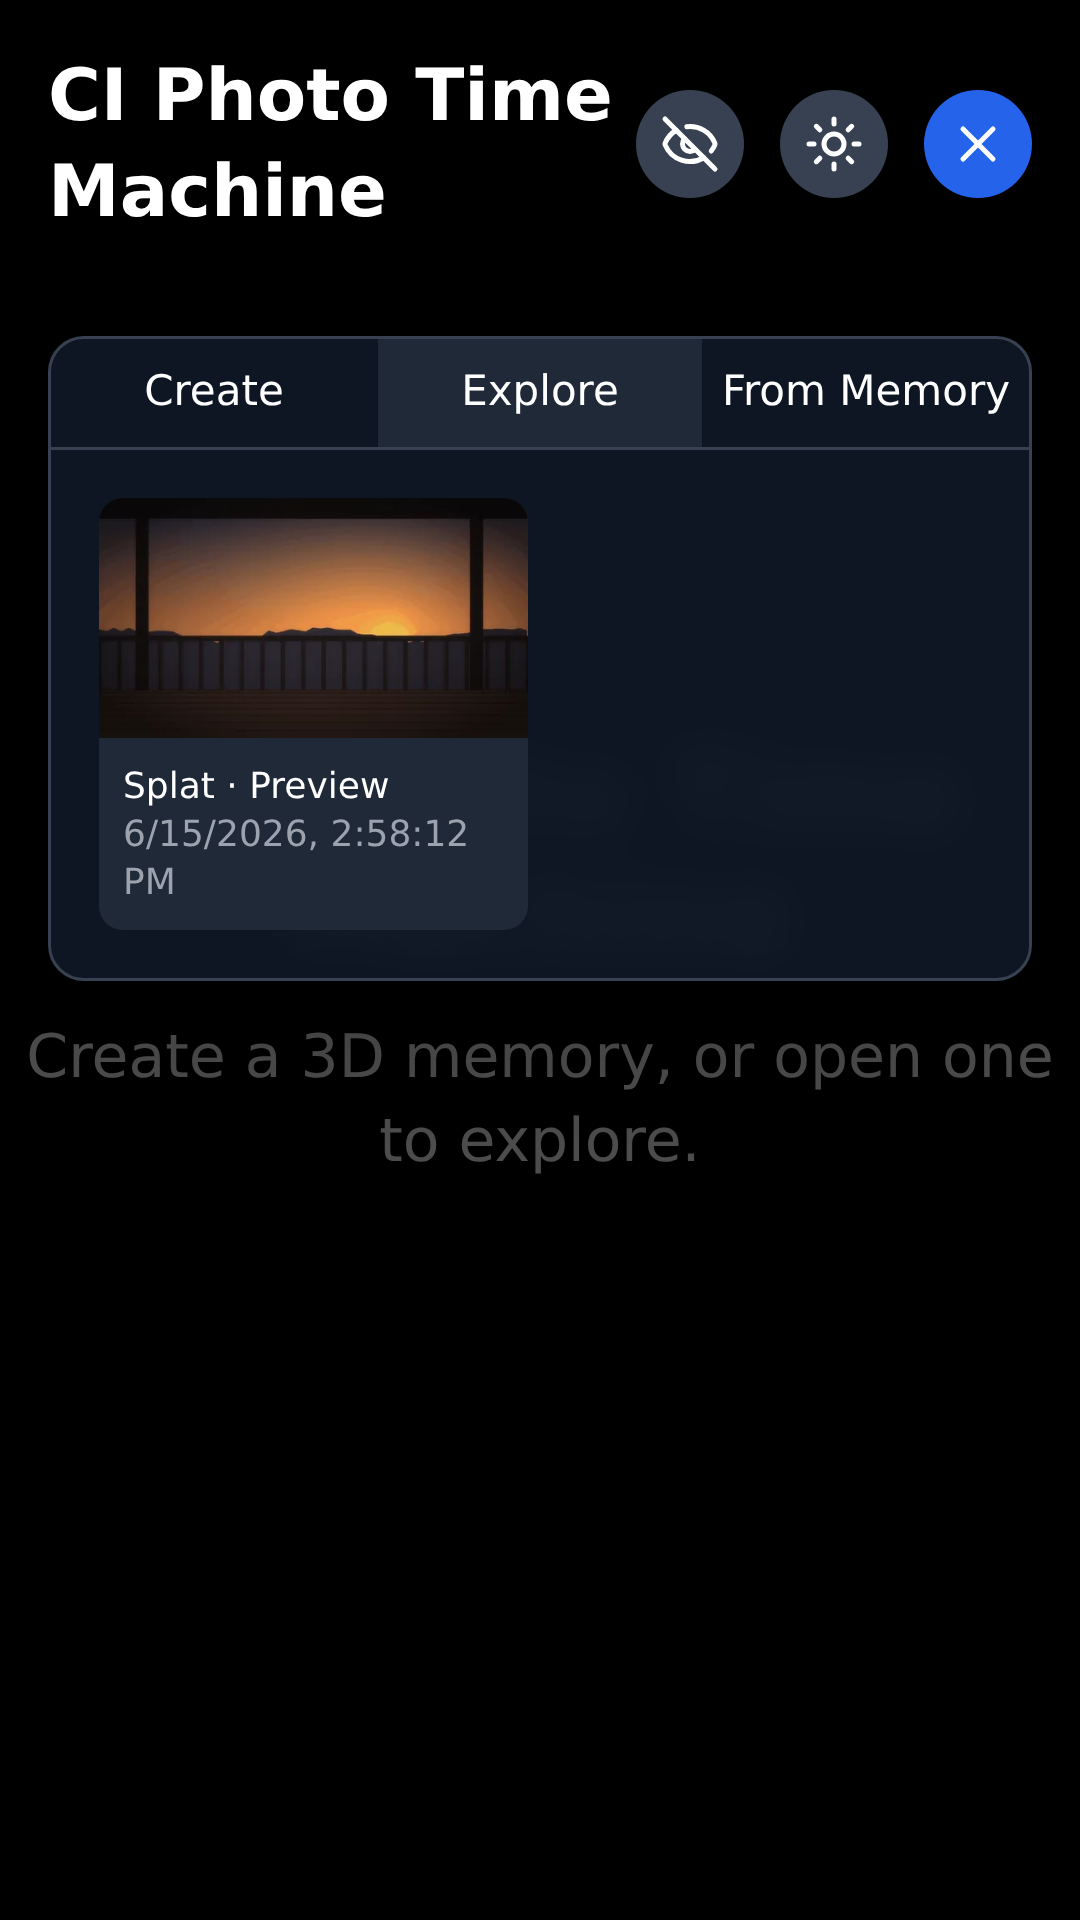
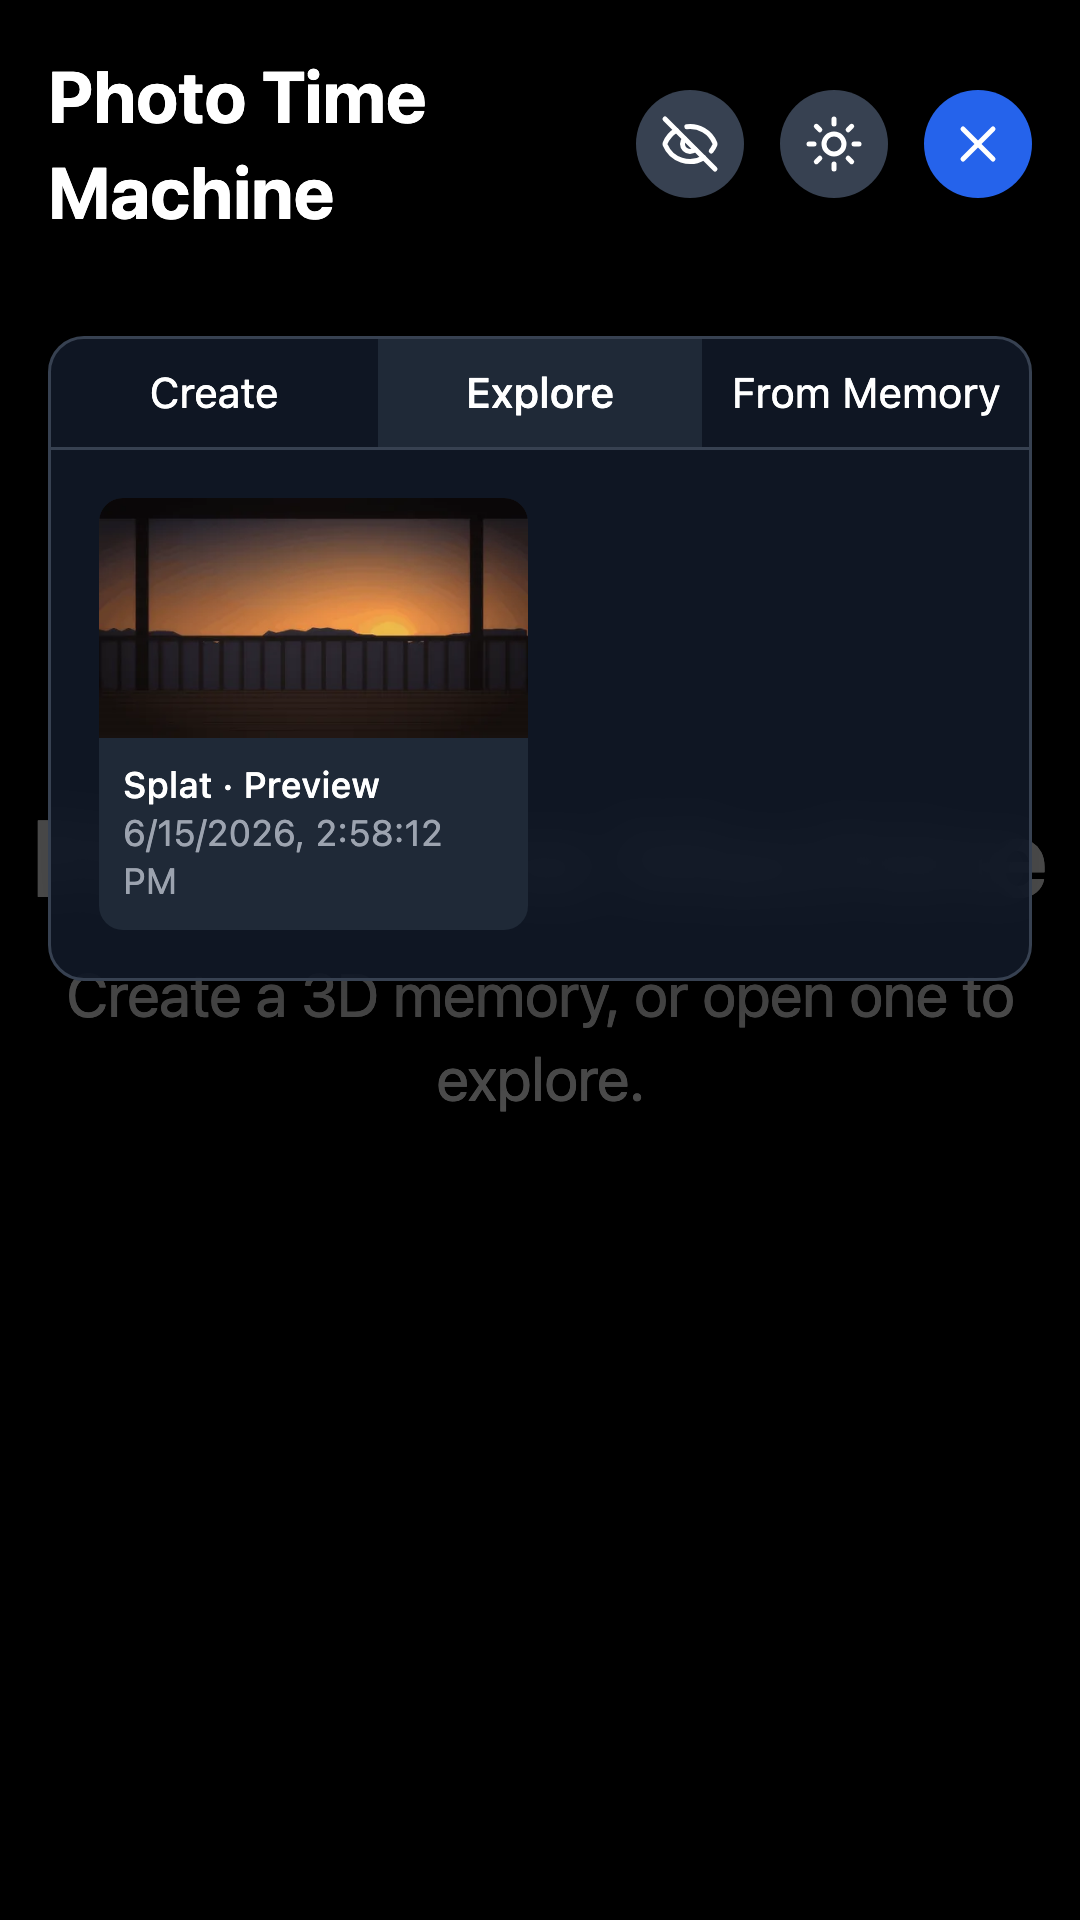
fix(video): stop masking the splat status pill, unbreak the share beat (#18)
* fix(video): stop masking the splat status pill, unbreak the share beat

Acts on the product-video audit for Photo Time Machine. Editorial and capture
fixes only — nothing here changes what the app does.

storyboard.json

- Drop `mask: ["[data-splat-status]"]` from all four viewer capture blocks.
  `capture.mask` does not blur, it paints an opaque #0A222E block (video-kit
  src/capture.mjs), so the committed viewer frames carry a teal-grey rectangle
  in the bottom-left of the device frame for the whole viewer sequence. Each
  block still waits on [data-splat-status="ready"], then hides the pill with an
  injected stylesheet as its last `before` step, so the ready contract is
  preserved and the rule survives the Toggle Controls re-render. Needs a
  re-capture to take effect.
- `share-link` was `orbit-memory` played backwards (viewer-orbit -> viewer-shared
  against orbit-memory's viewer-shared -> viewer-orbit): three consecutive scenes
  alternating between exactly two images for 18s. It is now a single
  viewer-shared beat at 5s — the only frame that carries the share URL — and its
  caption stops selling "orbit" for a third time. Runtime 61.5s -> 60.5s.
- `choose-engine` moves to drift-down. drop-media / choose-engine / job-running
  were all push-in on both shots: 18 consecutive seconds of one camera move
  opening the screens section. Moving the middle scene alternates them; this also
  clears the landscape layout gate's `text_occluded` report on the "01 · Create"
[…]

diff --git a/web-server/client/src/components/SplatViewer.tsx b/web-server/client/src/components/SplatViewer.tsx
@@ -331,8 +331,10 @@ const SplatViewer: React.FC<SplatViewerProps> = ({ fileUrl, file, className, hea
         actually finished uploading. `canvas` appears the moment this component
         mounts — long before `loadData` resolves — so anything that waits on the
         canvas alone can photograph an empty #0c1018 frame and call it a success.
-        The product-video capture waits on [data-splat-status="ready"] and masks
-        [data-splat-status] (video/storyboard.json).
+        The product-video capture waits on [data-splat-status="ready"] and then
+        hides [data-splat-status] with an injected stylesheet (video/storyboard.json).
+        It used to `mask` it instead, which paints an opaque #0A222E rectangle over
+        the pill — visible inside the device frame for the whole viewer sequence.
       */}
       {(loading || error || info) && (
         <div

diff --git a/web-server/client/src/components/TopBar.tsx b/web-server/client/src/components/TopBar.tsx
@@ -63,7 +63,10 @@ const TopBar: React.FC<TopBarProps> = ({
 
   return (
     <div className="flex items-center justify-between p-4 pointer-events-auto bg-gradient-to-b from-black/70 to-transparent">
-      <h1 className="text-2xl font-bold text-white drop-shadow-md">CI Photo Time Machine</h1>
+      {/* Product name, not the repo name — this string is on camera in every
+          product-video frame (video/storyboard.json, CI-Common video-kit
+          MESSAGING.md "Naming"). */}
+      <h1 className="text-2xl font-bold text-white drop-shadow-md">Photo Time Machine</h1>
       <div className="flex gap-3">
          {isXREnabled && (
            <div className="relative w-24 h-16 overflow-hidden border border-green-500 rounded bg-black/50">

diff --git a/web-server/client/src/App.tsx b/web-server/client/src/App.tsx
@@ -82,7 +82,7 @@ function App() {
         ) : (
           <div className="flex items-center justify-center w-full h-full text-center opacity-30">
             <div>
-              <p className="mb-3 text-4xl font-bold">CI Photo Time Machine</p>
+              <p className="mb-3 text-4xl font-bold">Photo Time Machine</p>
               <p className="text-xl">Create a 3D memory, or open one to explore.</p>
               {loadError && <p className="mt-3 text-red-400 text-sm">{loadError}</p>}
             </div>

diff --git a/video/README.md b/video/README.md
@@ -63,6 +63,24 @@ curl -sf -X POST http://127.0.0.1:8000/api/v1/jobs \
 Overrides: `PTM_VIEWER_URL` (default `http://localhost:3000`) and `PTM_API_URL`
 (default `http://localhost:8000`) in [`capture.config.mjs`](capture.config.mjs).
 
+Both ports are overridable, which matters when several product stages boot at once and 3000/8000
+are already taken. Nothing in the stage is pinned to the defaults — the 2026-08-05 re-shoot ran
+entirely on 3183/8183:
+
+```bash
+uvicorn app.main:app --app-dir server --host 127.0.0.1 --port 8183 &
+CI=false REACT_APP_API_BASE=http://127.0.0.1:8183 npm run build --prefix web-server/client
+npx serve -s web-server/client/build -l 3183 &
+# …seed the asset against :8183, then:
+APP_URL=http://localhost:3183 PTM_API_URL=http://127.0.0.1:8183 npm run capture
+```
+
+`APP_URL` works as a fallback for `PTM_VIEWER_URL`, so the fleet-wide runner convention needs no
+special case here. **`REACT_APP_API_BASE` must match the API port** — it is baked into the bundle
+at build time, so changing the API port means rebuilding the client, not just restarting uvicorn.
+`npx serve` can be any static server that does SPA fallback; without `-s`, `/view/:assetId` 404s
+and the two viewer shots fail.
+
 ## Current coverage
 
 Nine shots across seven scenes. Most scenes carry **two** of them, because several shots in one
@@ -71,16 +89,33 @@ filled, auto → chosen, panel → hidden) without cutting away.
 
 | Shot | State |
 | --- | --- |
-| `create-empty`, `create-selected`, `create-processing` | captured |
-| `memory-grid` | captured |
+| `create-empty`, `create-selected`, `create-engine-picked`, `create-processing` | captured |
+| `memory-grid`, `memory-job` | captured |
 | `gallery-assets`, `viewer-shared`, `viewer-orbit` | captured — need the **seeded asset** above |
-| `create-engine-picked`, `memory-job` | spec written, **not yet captured** — render as "capture pending" slates until someone runs `npm run capture` against the stage |
 
-`create-selected`, `viewer-shared` and `viewer-orbit` are each referenced by more than one scene.
-That is deliberate: a shot shared between consecutive scenes is a hinge frame, so one beat ends on
+**All nine are captured at both viewports — `ci-video status` reports "missing none".** The whole
+set was re-shot in one pass on 2026-08-05 against the stage below, so there are no "capture
+pending" slates left and no mixed-vintage frames.
+
+That re-shoot was not optional. The seven previously committed shots predated three fixes on this
+branch and could not be mixed with new ones: the top bar read `CI Photo Time Machine` (the repo
+name, on camera in every screen frame — `MESSAGING.md` "Naming"); `[data-splat-status]` was masked
+rather than hidden, so the viewer frames carried an opaque rectangle; and `renderer.setSize(…,
+false)` cropped the splat canvas to its top-left ninth at dpr 3. Capturing only the two missing
+shots would have shipped a cut whose product name changes between beats — which is why "just the
+missing ones" is the wrong instinct whenever the committed set is marked stale. **Check the top-bar
+string before assuming a partial capture is safe.**
+
+`create-selected` and `viewer-shared` are each referenced by more than one scene. That is
+deliberate: a shot shared between consecutive scenes is a hinge frame, so one beat ends on
 the state the next begins with. `capture` dedupes by shot id and **the first occurrence in scene
 order wins**, so if you edit one copy of a shared shot's `capture` block, edit every copy — a
 divergent later copy is silently dead config.
+
+A shared shot must still move the story *forward*. `share-link` used to run
+`viewer-orbit` → `viewer-shared`, which is `orbit-memory` played backwards: the same two frames
+alternating for 18s across three consecutive scenes. It is now a single `viewer-shared` beat —
+the only frame that actually carries the share URL.
 
 The asset shots need the seeded asset above, and the viewer shots additionally render a
 Three.js + Spark **WebGL2 canvas** that is outside the kit's byte-stability guarantee. Every
@@ -126,6 +161,13 @@ Two things bite when writing a `capture.before` here:
   selector present on the first rendered state after `goto` — which for this app is always the
   Create tab, because `App.tsx` defaults `tab` to `create`. Navigation belongs in `before`, each
   step guarded by its own `waitFor`.
+- **Never `mask` something you can hide.** `capture.mask` does not blur or crop — Playwright
+  paints an opaque `#0A222E` block over the region (`video-kit/src/capture.mjs`), which inside a
+  device frame reads as a UI bug. The viewer shots used to mask `[data-splat-status]` and shipped
+  a teal-grey rectangle in the bottom-left of every viewer frame. They now `waitFor`
+  `[data-splat-status="ready"]` as before and then hide the pill with an injected stylesheet, as
+  the last `before` step so it survives the Toggle Controls re-render. Mask only what you cannot
+  make deterministic.
 - **The two `<select>`s.** The kit's `fill` verb cannot drive them — Playwright rejects `fill` on
   a `<select>`. Use an `eval` that sets `.value` and dispatches a bubbling `change` (React's
   `ChangeEventPlugin` listens to the native `change` for selects), then guard it with
